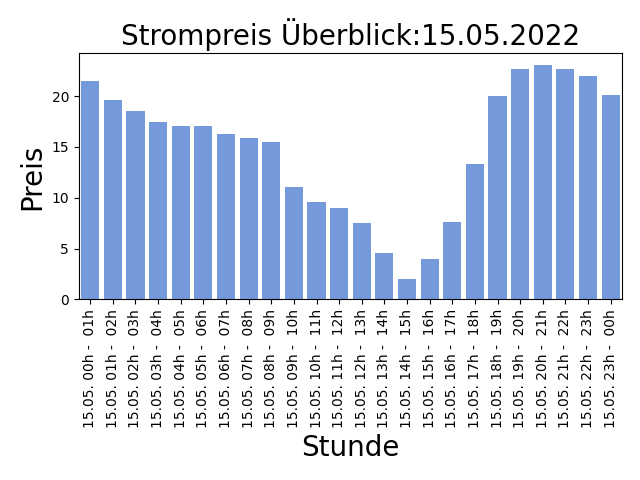
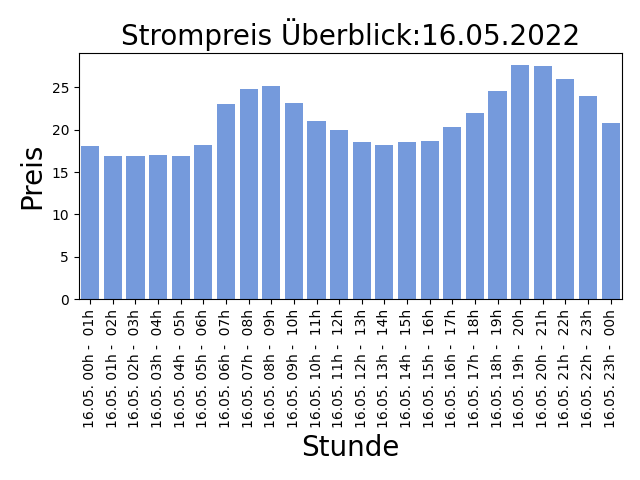
AUTOMATIC UPDATE PRICE LIST: 2022-05-15-14:30:05

diff --git a/README.md b/README.md
@@ -1,5 +1,5 @@
 
-## Strompreise für den 15.05.2022
+## Strompreise für den 16.05.2022
 
 Niedrige Preise deuten auf viel Sonnen und Windenergieerzeugung hin, ein hoher Anteil an erneuerbaren Energien bedeuted weniger CO2 Verbrauch!
 
@@ -7,31 +7,31 @@ Niedrige Preise deuten auf viel Sonnen und Windenergieerzeugung hin, ein hoher A
 
 | Stunde | Preis in Cent/kWh |
 |---|---|
-| 15.05. 00h -  01h | 21.491 | 
-| 15.05. 01h -  02h | 19.634999999999998 | 
-| 15.05. 02h -  03h | 18.543 | 
-| 15.05. 03h -  04h | 17.415 | 
-| 15.05. 04h -  05h | 17.017 | 
-| 15.05. 05h -  06h | 17.025 | 
-| 15.05. 06h -  07h | 16.291999999999998 | 
-| 15.05. 07h -  08h | 15.857 | 
-| 15.05. 08h -  09h | 15.498 | 
-| 15.05. 09h -  10h | 11.059999999999999 | 
-| 15.05. 10h -  11h | 9.598 | 
-| 15.05. 11h -  12h | 9.0 | 
-| 15.05. 12h -  13h | 7.5 | 
-| 15.05. 13h -  14h | 4.535 | 
-| **15.05. 14h -  15h** | **2.0149999999999997** | 
-| 15.05. 15h -  16h | 3.9579999999999997 | 
-| 15.05. 16h -  17h | 7.6209999999999996 | 
-| 15.05. 17h -  18h | 13.333000000000002 | 
-| 15.05. 18h -  19h | 19.974 | 
-| 15.05. 19h -  20h | 22.611 | 
-| 15.05. 20h -  21h | 23.057 | 
-| 15.05. 21h -  22h | 22.618000000000002 | 
-| 15.05. 22h -  23h | 21.957 | 
-| 15.05. 23h -  00h | 20.05 | 
+| 16.05. 00h -  01h | 18.018 | 
+| **16.05. 01h -  02h** | **16.906** | 
+| 16.05. 02h -  03h | 16.913 | 
+| 16.05. 03h -  04h | 16.988999999999997 | 
+| 16.05. 04h -  05h | 16.953 | 
+| 16.05. 05h -  06h | 18.204 | 
+| 16.05. 06h -  07h | 22.994999999999997 | 
+| 16.05. 07h -  08h | 24.808 | 
+| 16.05. 08h -  09h | 25.109 | 
+| 16.05. 09h -  10h | 23.108 | 
+| 16.05. 10h -  11h | 21.062 | 
+| 16.05. 11h -  12h | 19.968 | 
+| 16.05. 12h -  13h | 18.534 | 
+| 16.05. 13h -  14h | 18.233 | 
+| 16.05. 14h -  15h | 18.538999999999998 | 
+| 16.05. 15h -  16h | 18.625999999999998 | 
+| 16.05. 16h -  17h | 20.327 | 
+| 16.05. 17h -  18h | 21.916999999999998 | 
+| 16.05. 18h -  19h | 24.574 | 
+| 16.05. 19h -  20h | 27.631 | 
+| 16.05. 20h -  21h | 27.536 | 
+| 16.05. 21h -  22h | 25.99 | 
+| 16.05. 22h -  23h | 24.02 | 
+| 16.05. 23h -  00h | 20.838 | 
 
 Preise der EPEX Spot ® Strombörse (neue Preise werden täglich um 14:00 veröffentlicht für den kompletten nächsten Tag).
 
-letzte Aktualisierung:14.05.2022 14:30
+letzte Aktualisierung:15.05.2022 14:30
